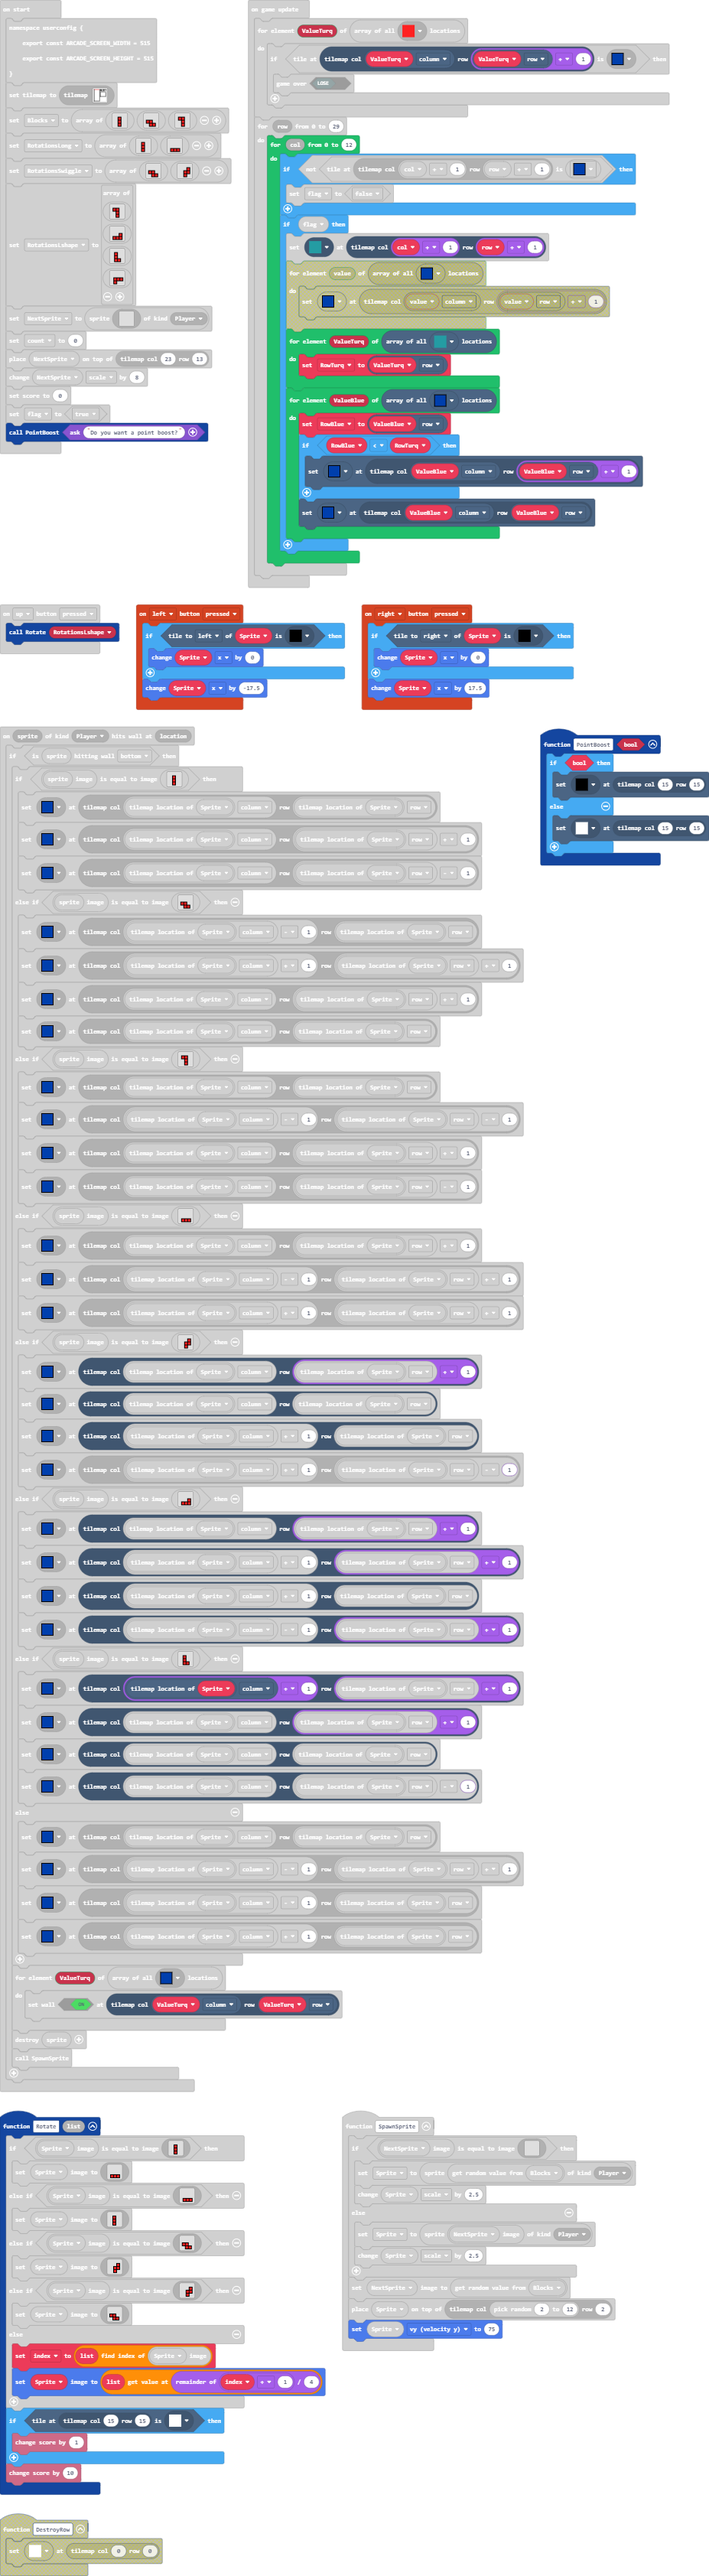
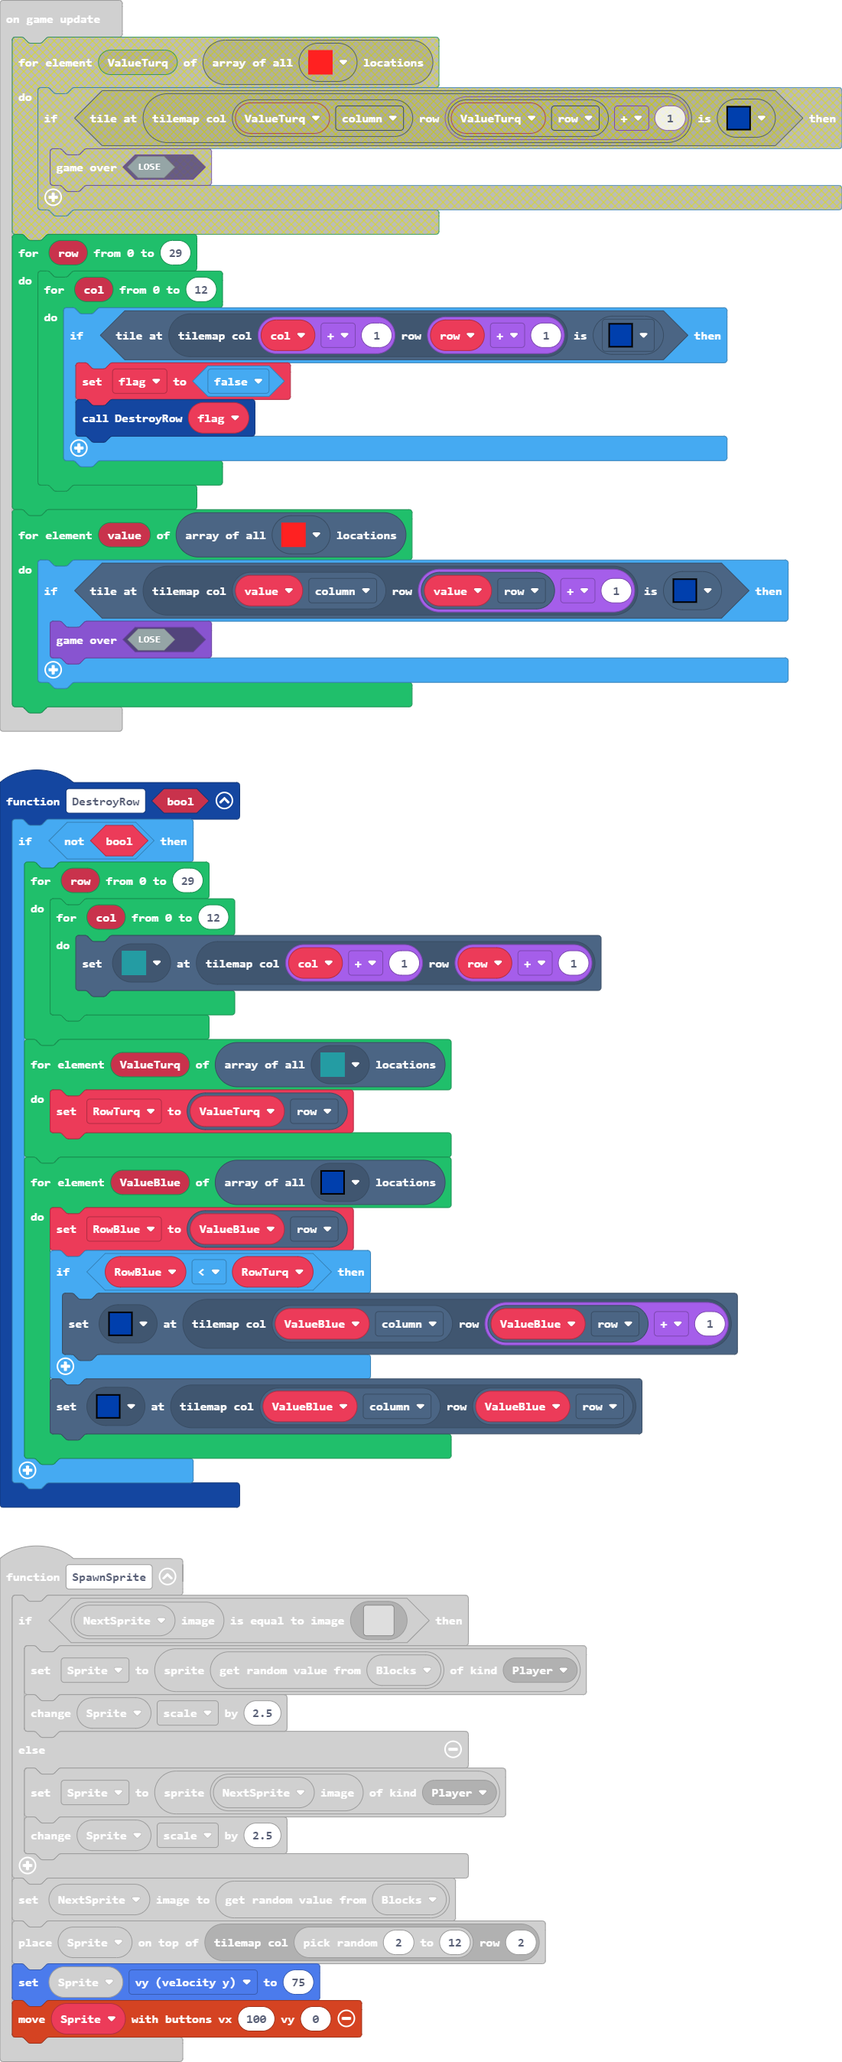
Update main.blocks, main.ts

diff --git a/main.ts b/main.ts
@@ -205,19 +205,27 @@ function SpawnSprite () {
     NextSprite.setImage(Blocks._pickRandom())
     tiles.placeOnTile(Sprite2, tiles.getTileLocation(randint(2, 12), 2))
     Sprite2.vy = 75
+    controller.moveSprite(Sprite2, 100, 0)
 }
-controller.left.onEvent(ControllerButtonEvent.Pressed, function () {
-    if (Sprite2.tileKindAt(TileDirection.Left, assets.tile`myTile0`)) {
-        Sprite2.x += 0
+function DestroyRow (bool: boolean) {
+    if (!(bool)) {
+        for (let row = 0; row <= 29; row++) {
+            for (let col = 0; col <= 12; col++) {
+                tiles.setTileAt(tiles.getTileLocation(col + 1, row + 1), assets.tile`myTile6`)
+            }
+        }
+        for (let ValueTurq of tiles.getTilesByType(assets.tile`myTile6`)) {
+            RowTurq = ValueTurq.row
+        }
+        for (let ValueBlue of tiles.getTilesByType(assets.tile`myTile3`)) {
+            RowBlue = ValueBlue.row
+            if (RowBlue < RowTurq) {
+                tiles.setTileAt(tiles.getTileLocation(ValueBlue.column, ValueBlue.row + 1), assets.tile`myTile3`)
+            }
+            tiles.setTileAt(tiles.getTileLocation(ValueBlue.column, ValueBlue.row), assets.tile`myTile3`)
+        }
     }
-    Sprite2.x += -17.5
-})
-controller.right.onEvent(ControllerButtonEvent.Pressed, function () {
-    if (Sprite2.tileKindAt(TileDirection.Right, assets.tile`myTile0`)) {
-        Sprite2.x += 0
-    }
-    Sprite2.x += 17.5
-})
+}
 function PointBoost (bool: boolean) {
     if (bool) {
         tiles.setTileAt(tiles.getTileLocation(15, 15), assets.tile`myTile0`)
@@ -383,9 +391,9 @@ function Rotate (list: Image[]) {
     }
     info.changeScoreBy(10)
 }
+let index = 0
 let RowBlue = 0
 let RowTurq = 0
-let index = 0
 let Sprite2: Sprite = null
 let count = 0
 let NextSprite: Sprite = null
@@ -617,28 +625,16 @@ info.setScore(0)
 let flag = true
 PointBoost(game.ask("Do you want a point boost?"))
 game.onUpdate(function () {
-    for (let ValueTurq of tiles.getTilesByType(assets.tile`myTile`)) {
-        if (tiles.tileAtLocationEquals(tiles.getTileLocation(ValueTurq.column, ValueTurq.row + 1), assets.tile`myTile3`)) {
+    for (let value of tiles.getTilesByType(assets.tile`myTile`)) {
+        if (tiles.tileAtLocationEquals(tiles.getTileLocation(value.column, value.row + 1), assets.tile`myTile3`)) {
             game.gameOver(false)
         }
     }
     for (let row = 0; row <= 29; row++) {
         for (let col = 0; col <= 12; col++) {
-            if (!(tiles.tileAtLocationEquals(tiles.getTileLocation(col + 1, row + 1), assets.tile`myTile3`))) {
+            if (tiles.tileAtLocationEquals(tiles.getTileLocation(col + 1, row + 1), assets.tile`myTile3`)) {
                 flag = false
-            }
-            if (flag) {
-                tiles.setTileAt(tiles.getTileLocation(col + 1, row + 1), assets.tile`myTile6`)
-                for (let ValueTurq of tiles.getTilesByType(assets.tile`myTile6`)) {
-                    RowTurq = ValueTurq.row
-                }
-                for (let ValueBlue of tiles.getTilesByType(assets.tile`myTile3`)) {
-                    RowBlue = ValueBlue.row
-                    if (RowBlue < RowTurq) {
-                        tiles.setTileAt(tiles.getTileLocation(ValueBlue.column, ValueBlue.row + 1), assets.tile`myTile3`)
-                    }
-                    tiles.setTileAt(tiles.getTileLocation(ValueBlue.column, ValueBlue.row), assets.tile`myTile3`)
-                }
+                DestroyRow(flag)
             }
         }
     }
